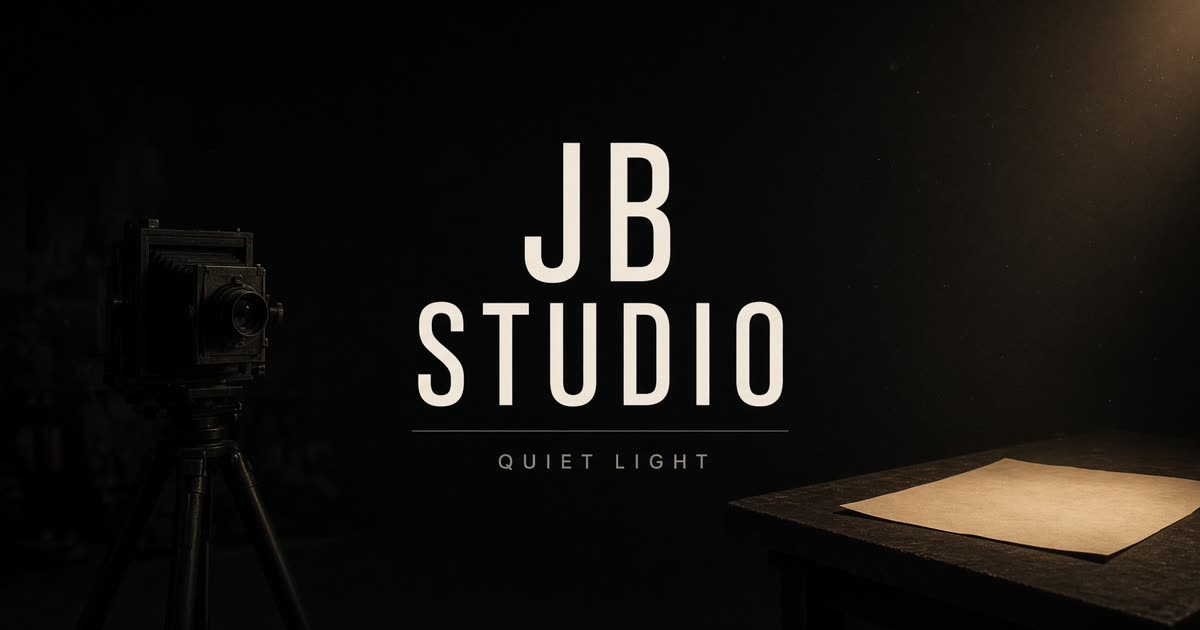
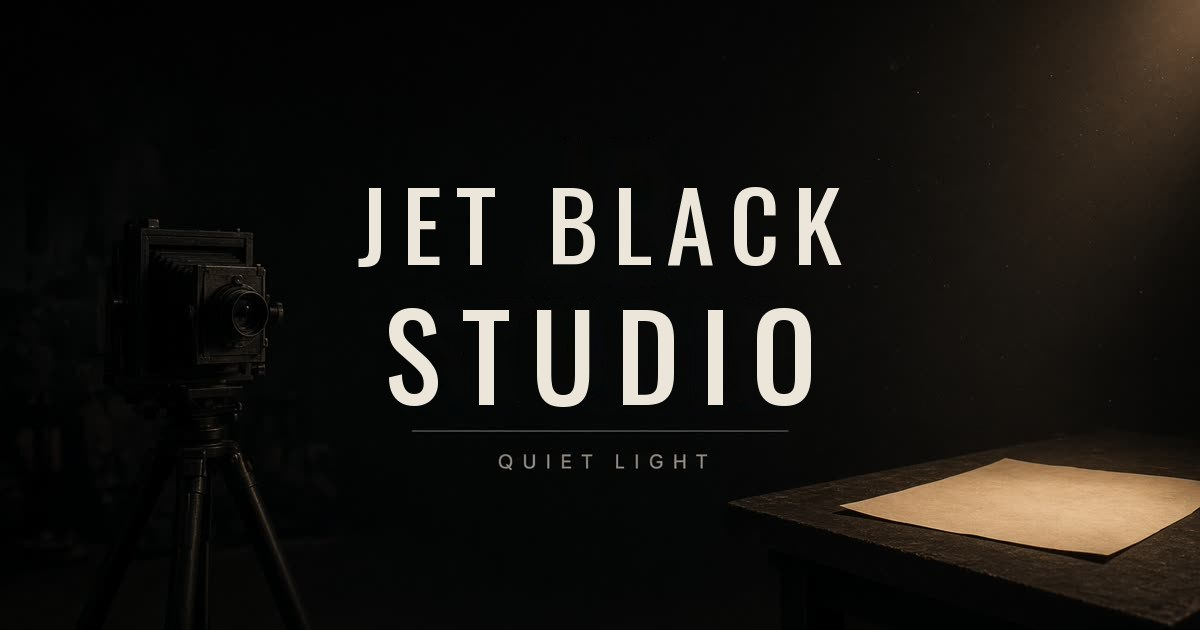
Rename business to Jet Black Studio

Changed region(s): [[0.3083, 0.4825, 0.6783, 0.6635], [0.4317, 0.2111, 0.7092, 0.4524], [0.2775, 0.3016, 0.4317, 0.4222]]

diff --git a/src/lib/services.ts b/src/lib/services.ts
@@ -28,7 +28,7 @@ export const SERVICE_PAGES: ServicePageContent[] = [
   {
     slug: "/maternity-photography",
     label: "Maternity",
-    title: "Maternity Photographer in Saskatoon | JB Photo Studio",
+    title: "Maternity Photographer in Saskatoon | Jet Black Studio",
     description:
       "Relaxed maternity photography in Saskatoon, in studio or on location. Sessions starting at $250.00.",
     h1: "Maternity photographer in Saskatoon",
@@ -76,7 +76,7 @@ export const SERVICE_PAGES: ServicePageContent[] = [
   {
     slug: "/family-photography",
     label: "Family",
-    title: "Family Photographer in Saskatoon | JB Photo Studio",
+    title: "Family Photographer in Saskatoon | Jet Black Studio",
     description:
       "Natural, relaxed family photos in Saskatoon. On location or in studio, starting at $250.00.",
     h1: "Family photographer in Saskatoon",
@@ -123,7 +123,7 @@ export const SERVICE_PAGES: ServicePageContent[] = [
   {
     slug: "/portrait-photography",
     label: "Portrait",
-    title: "Portrait & Headshot Photographer in Saskatoon | JB Photo Studio",
+    title: "Portrait & Headshot Photographer in Saskatoon | Jet Black Studio",
     description:
       "Portrait and headshot photography in Saskatoon, in studio or on location. Sessions starting at $200.00.",
     h1: "Portrait photographer in Saskatoon",
@@ -170,7 +170,7 @@ export const SERVICE_PAGES: ServicePageContent[] = [
   {
     slug: "/nightlife-photography",
     label: "Nightlife",
-    title: "Nightlife & Event Photographer in Saskatoon | JB Photo Studio",
+    title: "Nightlife & Event Photographer in Saskatoon | Jet Black Studio",
     description:
       "Nightclub, party and event photography in Saskatoon. Coverage starting at $275.00, sneak peeks in 24-48 hours.",
     h1: "Nightlife & event photographer in Saskatoon",

diff --git a/src/routes/services.tsx b/src/routes/services.tsx
@@ -7,7 +7,7 @@ export const Route = createFileRoute("/services")({
   head: () =>
     pageHead(
       `Services - ${SITE.name}`,
-      "JB Photo Studio pricing: portraits from $200.00, family sessions from $250.00, nightlife coverage from $275.00, plus by-donation sessions and hosted studio time in Riversdale, Saskatoon.",
+      "Jet Black Studio pricing: portraits from $200.00, family sessions from $250.00, nightlife coverage from $275.00, plus by-donation sessions and hosted studio time in Riversdale, Saskatoon.",
       "/services",
     ),
   component: Services,

diff --git a/src/lib/site.ts b/src/lib/site.ts
@@ -5,9 +5,10 @@
 export const SITE = {
   // Official business name: matches insurance, registration, signage and the
   // Google Business Profile. Use this everywhere Google might read it.
-  name: "JB Photo Studio",
-  // Short brand mark used in the logo / header wordmark.
-  brand: "JB Studio",
+  name: "Jet Black Studio",
+  // Brand wordmark used in the header. Registered name (SK Corporate Registry,
+  // business no. 102246788): keep it matching `name`.
+  brand: "Jet Black Studio",
   photographer: "Johnathon",
   city: "Saskatoon",
   region: "Saskatchewan",

diff --git a/src/routes/index.tsx b/src/routes/index.tsx
@@ -9,7 +9,7 @@ export const Route = createFileRoute("/")({
   head: () =>
     pageHead(
       `${SITE.name} - Portraits, family & nightlife photography in Saskatoon`,
-      "JB Photo Studio is Johnathon, a portrait photographer with a studio in Riversdale, Saskatoon. Portraits, headshots, family, maternity and nightlife. Book a shoot.",
+      "Jet Black Studio is Johnathon, a portrait photographer with a studio in Riversdale, Saskatoon. Portraits, headshots, family, maternity and nightlife. Book a shoot.",
       "/",
     ),
   component: Home,

diff --git a/src/routes/contact.tsx b/src/routes/contact.tsx
@@ -13,7 +13,7 @@ export const Route = createFileRoute("/contact")({
   head: () =>
     pageHead(
       `Book a shoot - ${SITE.name}`,
-      "Request a portrait, family, or nightlife shoot with JB Photo Studio in Saskatoon. Tell me the date and location and I'll reply by email.",
+      "Request a portrait, family, or nightlife shoot with Jet Black Studio in Saskatoon. Tell me the date and location and I'll reply by email.",
       "/contact",
     ),
   component: Contact,

diff --git a/src/routes/work.tsx b/src/routes/work.tsx
@@ -10,7 +10,7 @@ export const Route = createFileRoute("/work")({
   head: () =>
     pageHead(
       `Work - ${SITE.name}`,
-      "Browse the full JB Photo Studio portfolio: portrait, maternity, family, and nightlife photography from real sessions in Saskatoon.",
+      "Browse the full Jet Black Studio portfolio: portrait, maternity, family, and nightlife photography from real sessions in Saskatoon.",
       "/work",
     ),
   component: Work,

diff --git a/src/routes/about.tsx b/src/routes/about.tsx
@@ -8,7 +8,7 @@ export const Route = createFileRoute("/about")({
   head: () =>
     pageHead(
       `About - ${SITE.name}`,
-      "Meet Johnathon, the photographer behind JB Photo Studio in Saskatoon — relaxed sessions focused on real, candid moments.",
+      "Meet Johnathon, the photographer behind Jet Black Studio in Saskatoon — relaxed sessions focused on real, candid moments.",
       "/about",
     ),
   component: About,

diff --git a/src/lib/inquiries.ts b/src/lib/inquiries.ts
@@ -33,7 +33,7 @@ export async function submitInquiry({ data }: { data: InquiryInput }) {
   }
 
   const body = {
-    _subject: `JB Photo Studio: ${data.shootType} inquiry from ${data.name}`,
+    _subject: `Jet Black Studio: ${data.shootType} inquiry from ${data.name}`,
     _template: "table",
     _replyto: data.email,
     name: data.name,

diff --git a/src/lib/photos.ts b/src/lib/photos.ts
@@ -140,7 +140,7 @@ export const GALLERIES = [
 export const ABOUT_PHOTO = photo(
   "ABOUT",
   "johnathon-saskatoon-photographer-headshot",
-  "Johnathon, the photographer behind JB Photo Studio in Saskatoon",
+  "Johnathon, the photographer behind Jet Black Studio in Saskatoon",
   1600,
   1600,
 );

diff --git a/src/routes/__root.tsx b/src/routes/__root.tsx
@@ -36,7 +36,6 @@ const localBusinessSchema = {
   "@type": "ProfessionalService",
   "@id": `${SITE.url}/#business`,
   name: SITE.name,
-  alternateName: SITE.brand,
   image: `${SITE.url}/og.jpg`,
   logo: `${SITE.url}/apple-touch-icon.png`,
   url: SITE.url,
